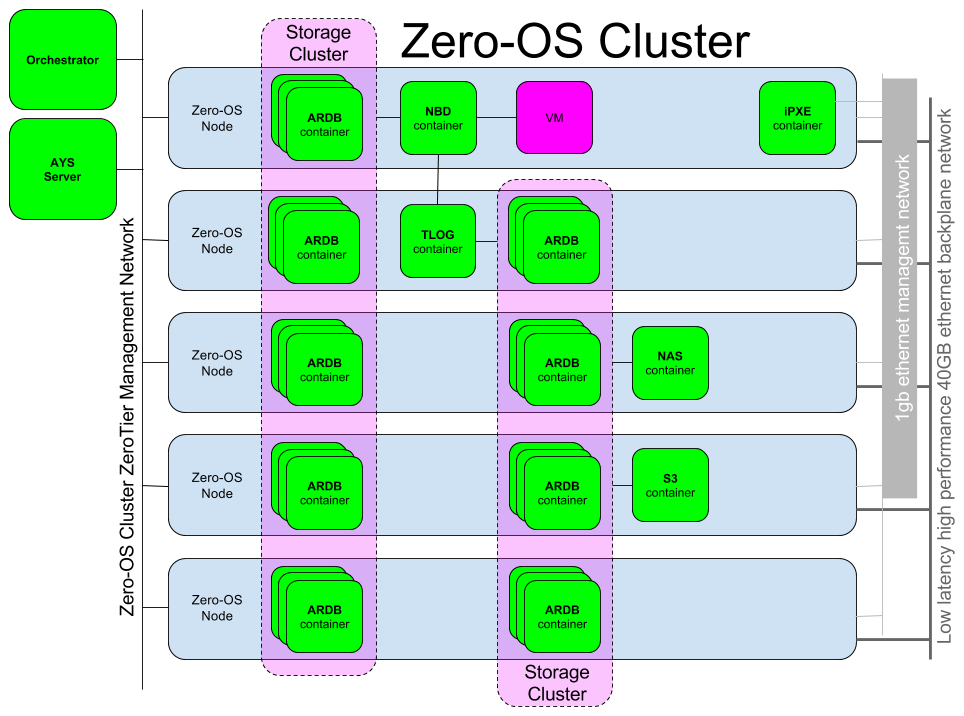
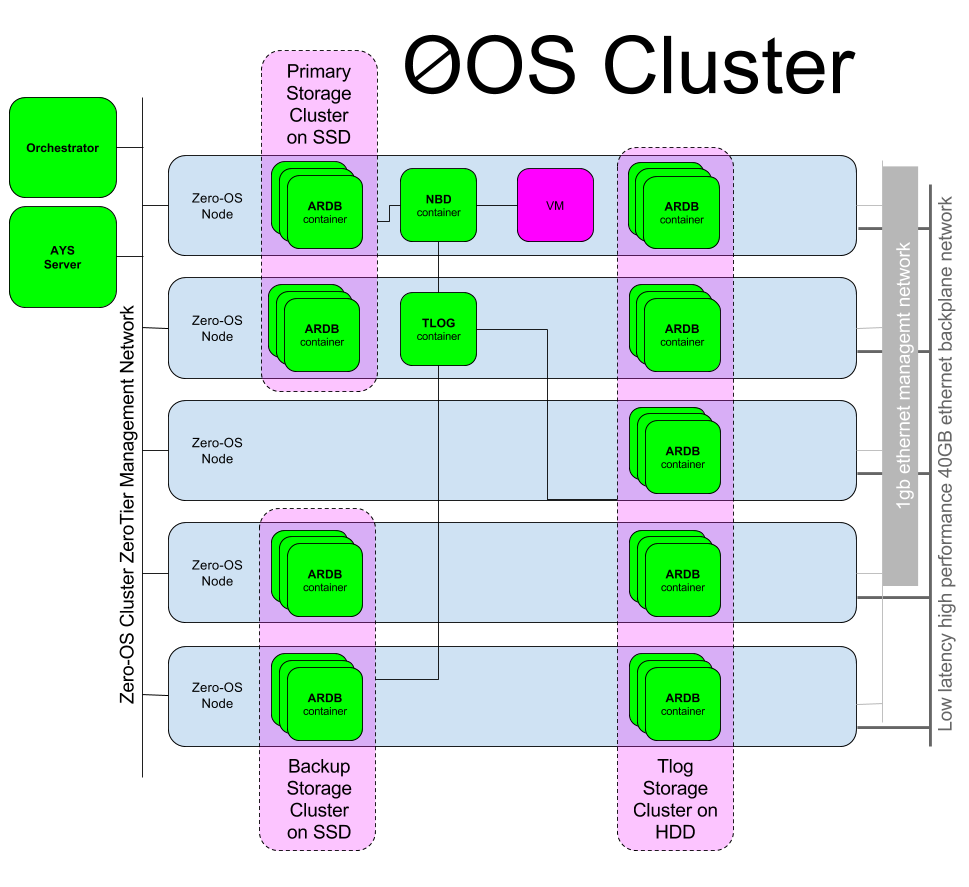
Updated architecture drawing (#513)

diff --git a/docs/storagecluster/storagecluster.md b/docs/storagecluster/storagecluster.md
@@ -2,8 +2,6 @@
 
 A Zero-OS cluster typically hosts (as a workload) one or more storage clusters.
 
-A storage cluster is set of containers running ARDB.
+Setting up a storage cluster is achieved through the REST API exposed by the Zero-OS Orchestrator, as documented in [Setup a Storage Cluster](./setup.md)
 
-Setting up a storage cluster is achieved through the REST API exposed by the Zero-OS Orchestrator, as documented in [Setup a Storage Cluster](setup.md)
-
-Once you have a storage cluster setup it can be used for multiple purposes, most importantly for creating vdisks as discussed in [Block Storage](/docs/blockstorage/blockstorage.md).
+Once you have a storage cluster setup it can be used for multiple purposes, most importantly for creating vdisks as discussed in [Block Storage](../blockstorage/blockstorage.md).
